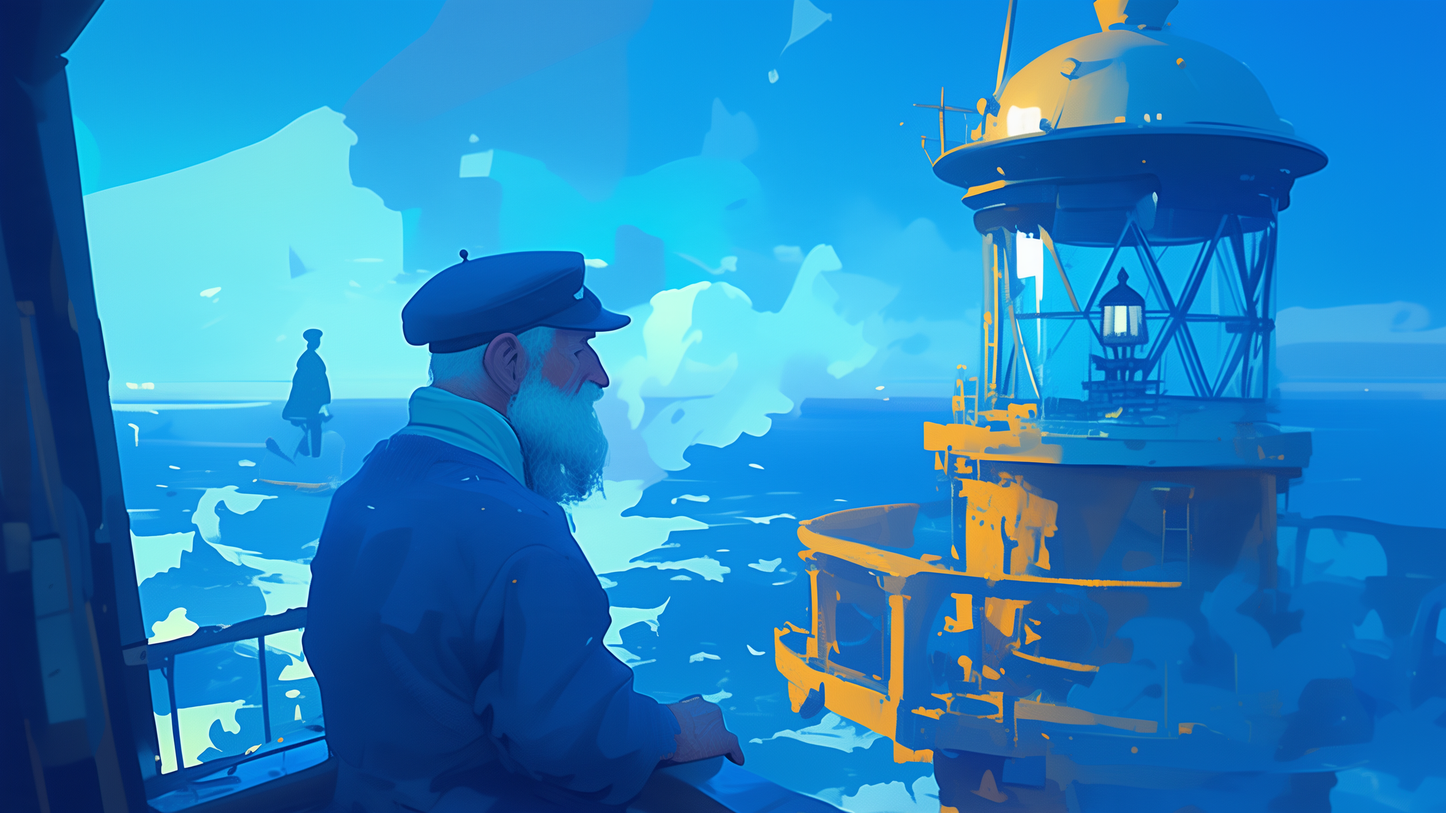
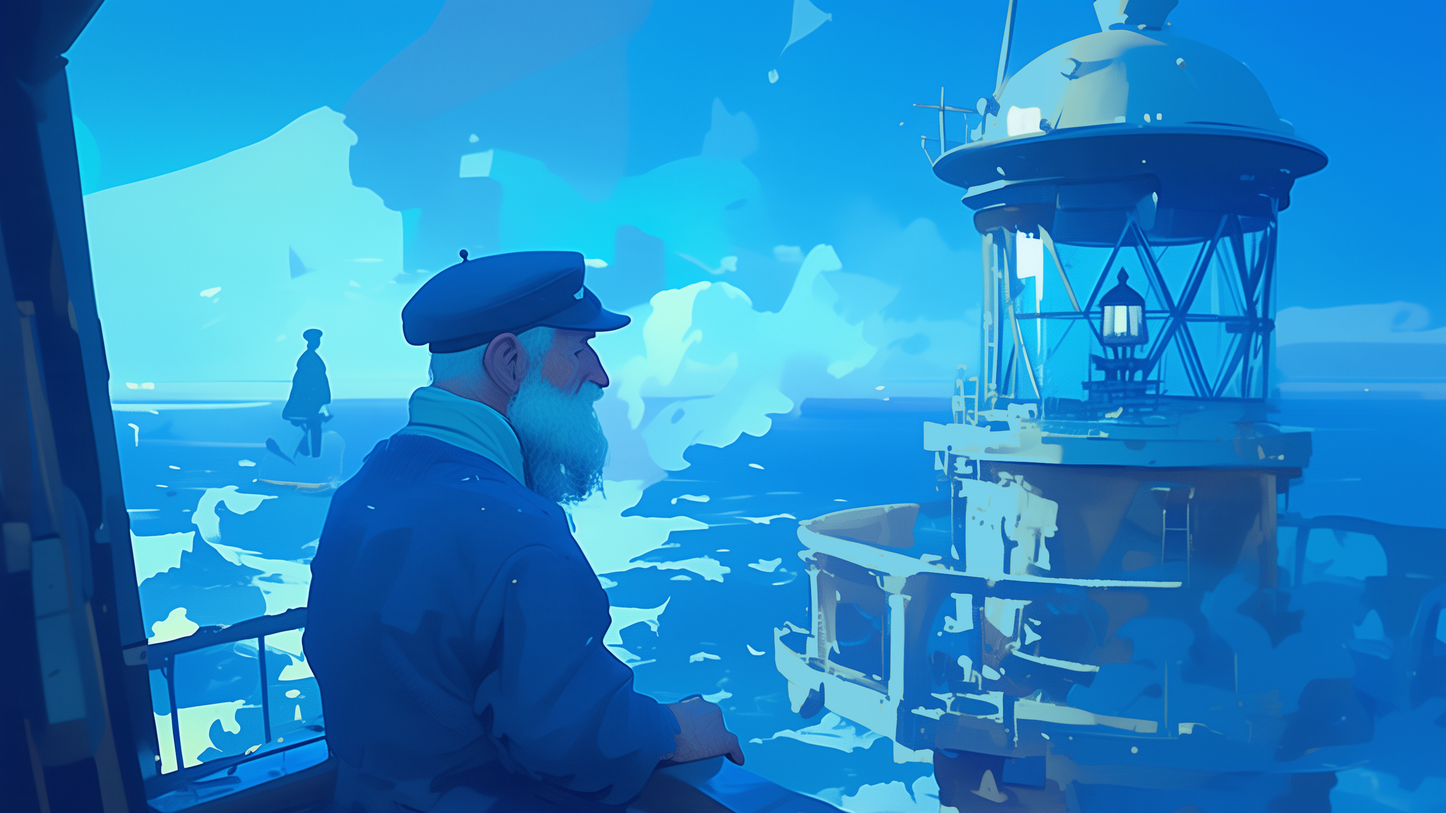
B4 (orange removed) and B5 (lantern re-posed) from user's PS fixes
Claude-Session: https://claude.ai/code/session_01MGSCAVnQPAUqBiCn5fEB7X

diff --git a/ART_HANDOFF.md b/ART_HANDOFF.md
@@ -183,7 +183,7 @@ TechArtAsset/Props/   TechArtAsset/UI/   TechArtAsset/Menu/   TechArtAsset/Audio
   - MJ 第一轮 A1–A4、B1–B5 已出（提示词与结果 ART_PROMPTS §4c；挑选表 Sheets「守灯人 故事版 A/B 第一轮」）：A1 A2 B2 B3 B4 B5 可定；A3（灯塔仍亮）、A4（暖光圈弱）、B1（圆窗像舷窗）要重跑。
 - **11-11 深夜：用户挑 A / B（理由一并记下）**
   - A1：选**右下**（灯型和游戏里的灯笼接近）→ `SB_A1.png`（源 `_work/SB_A1_src_main.png`，下载名 0_1）；左上备用 `SB_A1_src_alt.png`（0_0）。
-  - B4 去橘光、B5 重摆举灯杆：用户在 PS 里处理中（11-12），存好后 Claude 用 `finish_sb.py` 重新裁成 `SB_B4.png` / `SB_B5.png`。
+  - ☑ B4 去橘光、B5 重摆举灯杆（用户 PS，11-12）→ `Ending_B/_work/SB_B4_src_BL_PSfix.png/.psd`、`SB_B5_src_TR_PSfix.png/.psd` → 重新裁成 `SB_B4.png` / `SB_B5.png`。
   - A2：右上 → `SB_A2.png`。
   - A3：最暗那张 → `SB_A3.png` 暂用（灯室还有一点小亮光，要 PS 涂暗或重跑）。B2 另一张备用 `Ending_B/_work/SB_B2_src_alt.png`。
   - A4：右上暂存 → `LanternOrigin_A/SB_A4.png`（暖光圈弱，可能重跑）。

diff --git a/ART_ref/ASSETS.md b/ART_ref/ASSETS.md
@@ -68,3 +68,4 @@
 | 2026-11-11 | Home 箱子 `TechArtAsset/Scenes/Home/Props/Crate_v1.png`（520×440，底边贴地；MJ 源 `Props/_work/Crate_src_MJ.png`，脚本 `make_crate.py`） |
 | 2026-11-11 | 故事版 A / B 占位 `TechArtAsset/Storyboard/LanternOrigin_A/placeholder/SB_A1..4_placeholder.png`、`Ending_B/placeholder/SB_B1..5_placeholder.png`（2208×1242，代码生成） |
 | 2026-11-11 | 故事版暂用图（MJ 第一轮）：`Storyboard/LanternOrigin_A/SB_A4.png`；`Storyboard/Ending_B/SB_B1..B5.png`（B4 待去橘光、B5 待重摆举灯杆、B1/A4 可能重跑）；源 `_work/SB_*_src_*.png` |
+| 2026-11-12 | 故事版 A1–A3 暂用图 `LanternOrigin_A/SB_A1..A3.png`（A1 右下，灯型接近）；B4 去橘光、B5 重摆举灯杆（用户 PS，源 `Ending_B/_work/*_PSfix.*`） |
